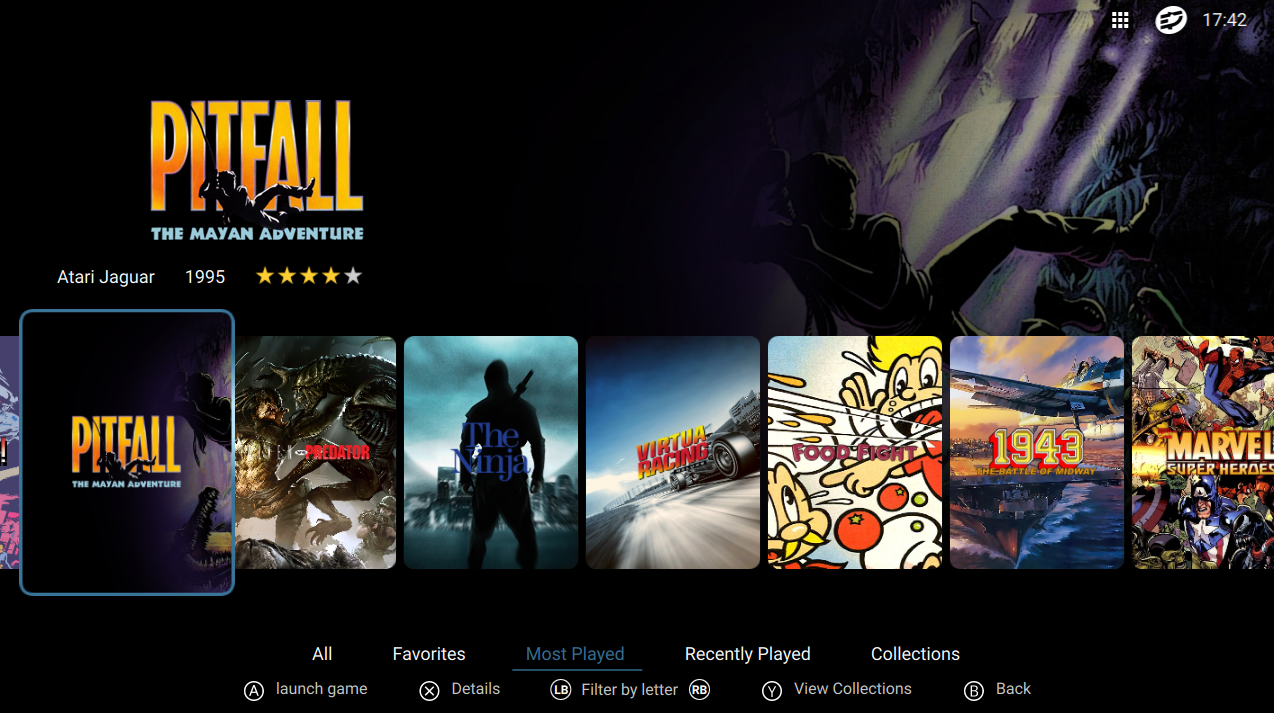
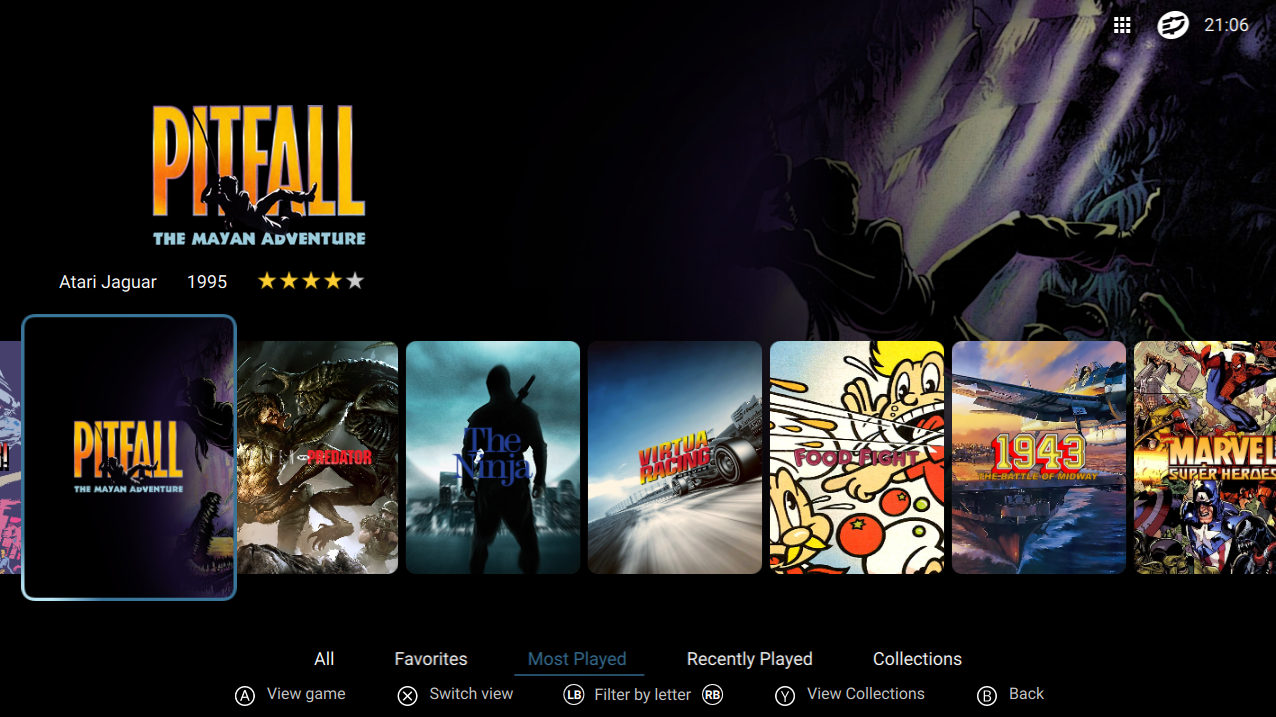
update-25-1-26

diff --git a/theme.qml b/theme.qml
@@ -1100,7 +1100,7 @@ FocusScope {
                     anchors.verticalCenter: parent.verticalCenter
                 }
                 Text {
-                    text: "switch view"
+                    text: "Switch view"
                     font.pixelSize: vpx(16)
                     font.family: global.fonts.sans
                     color: "#CCCCCC"
